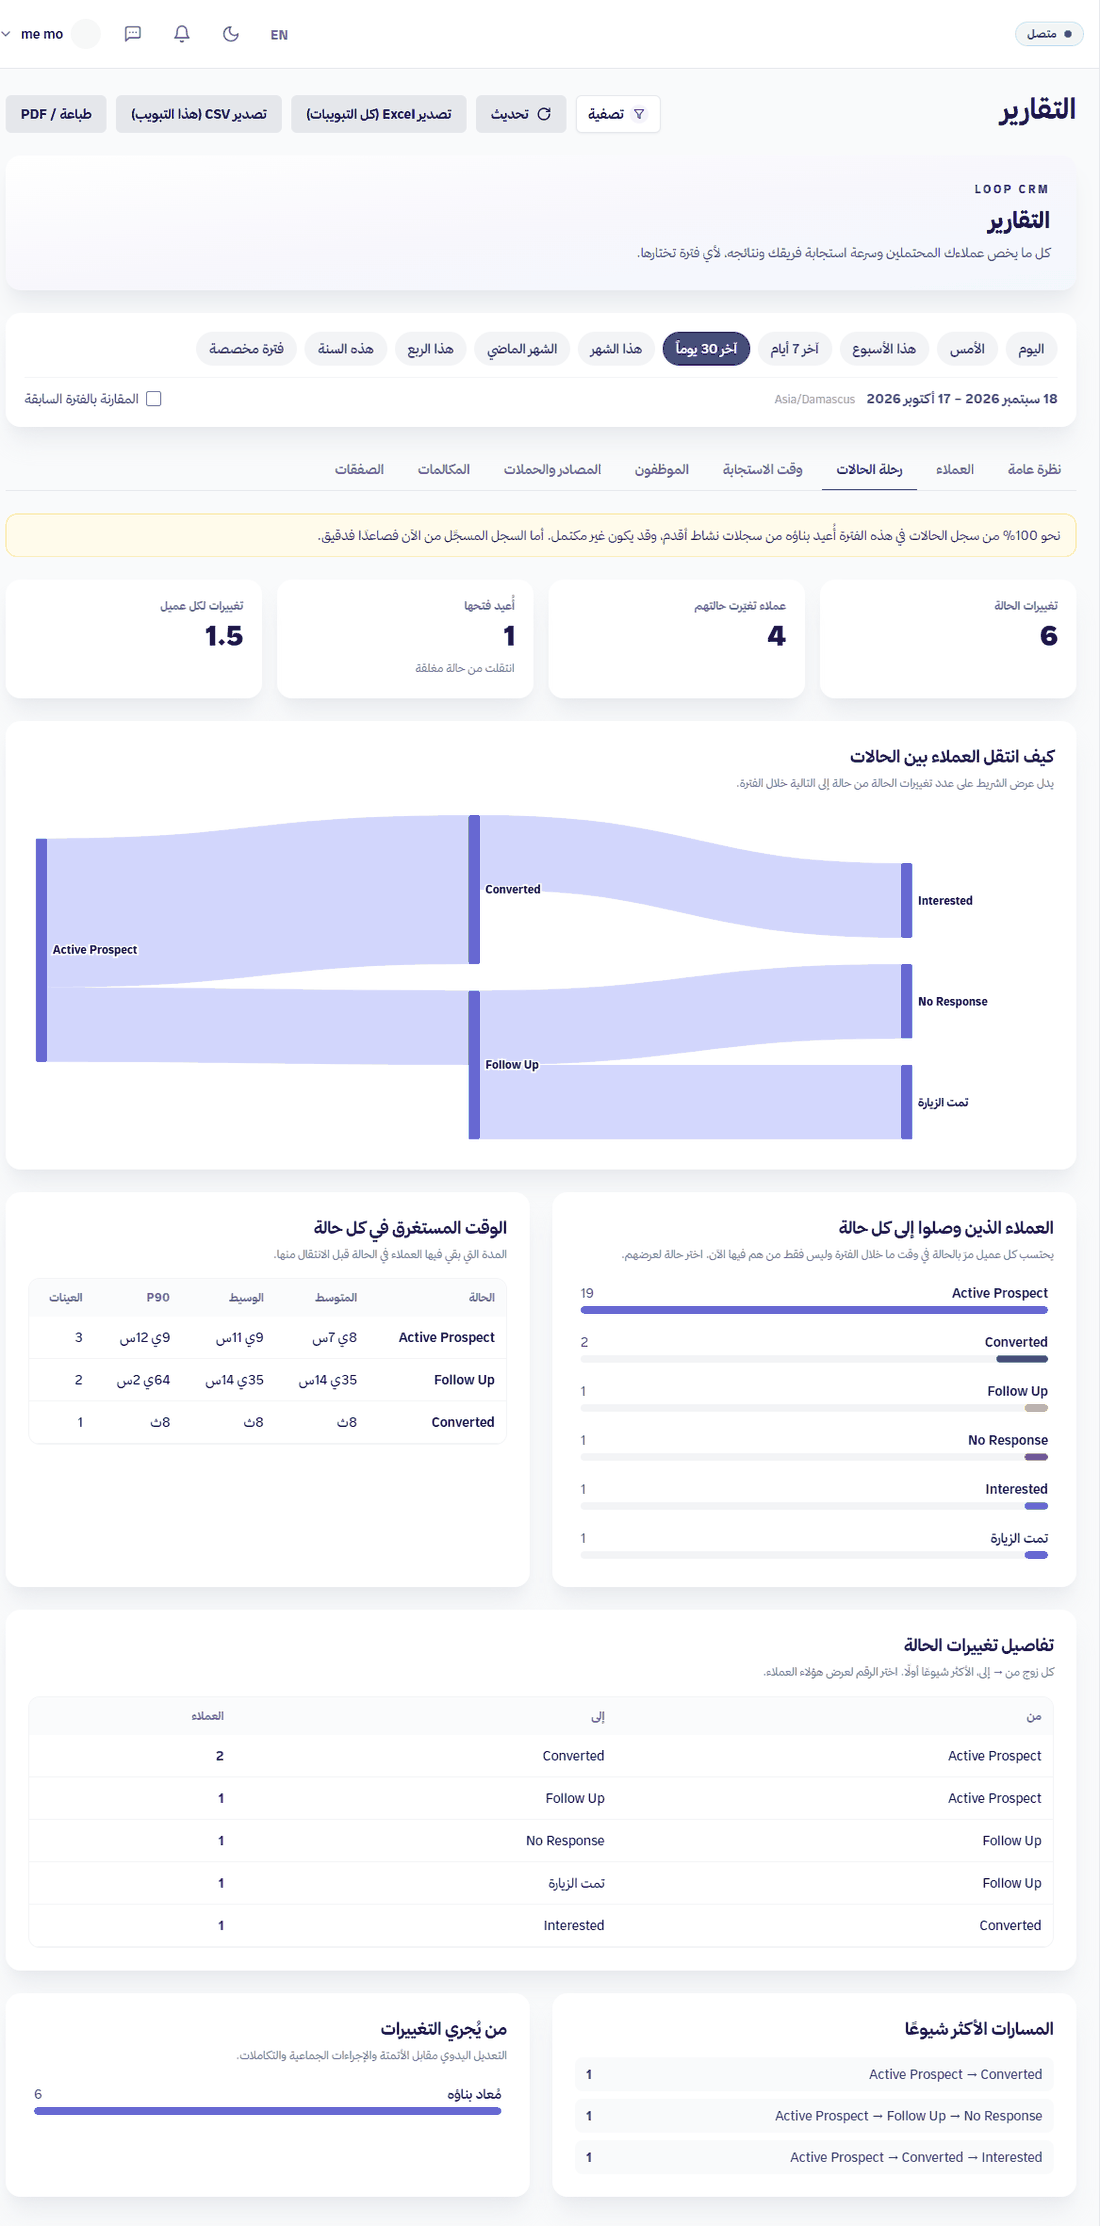
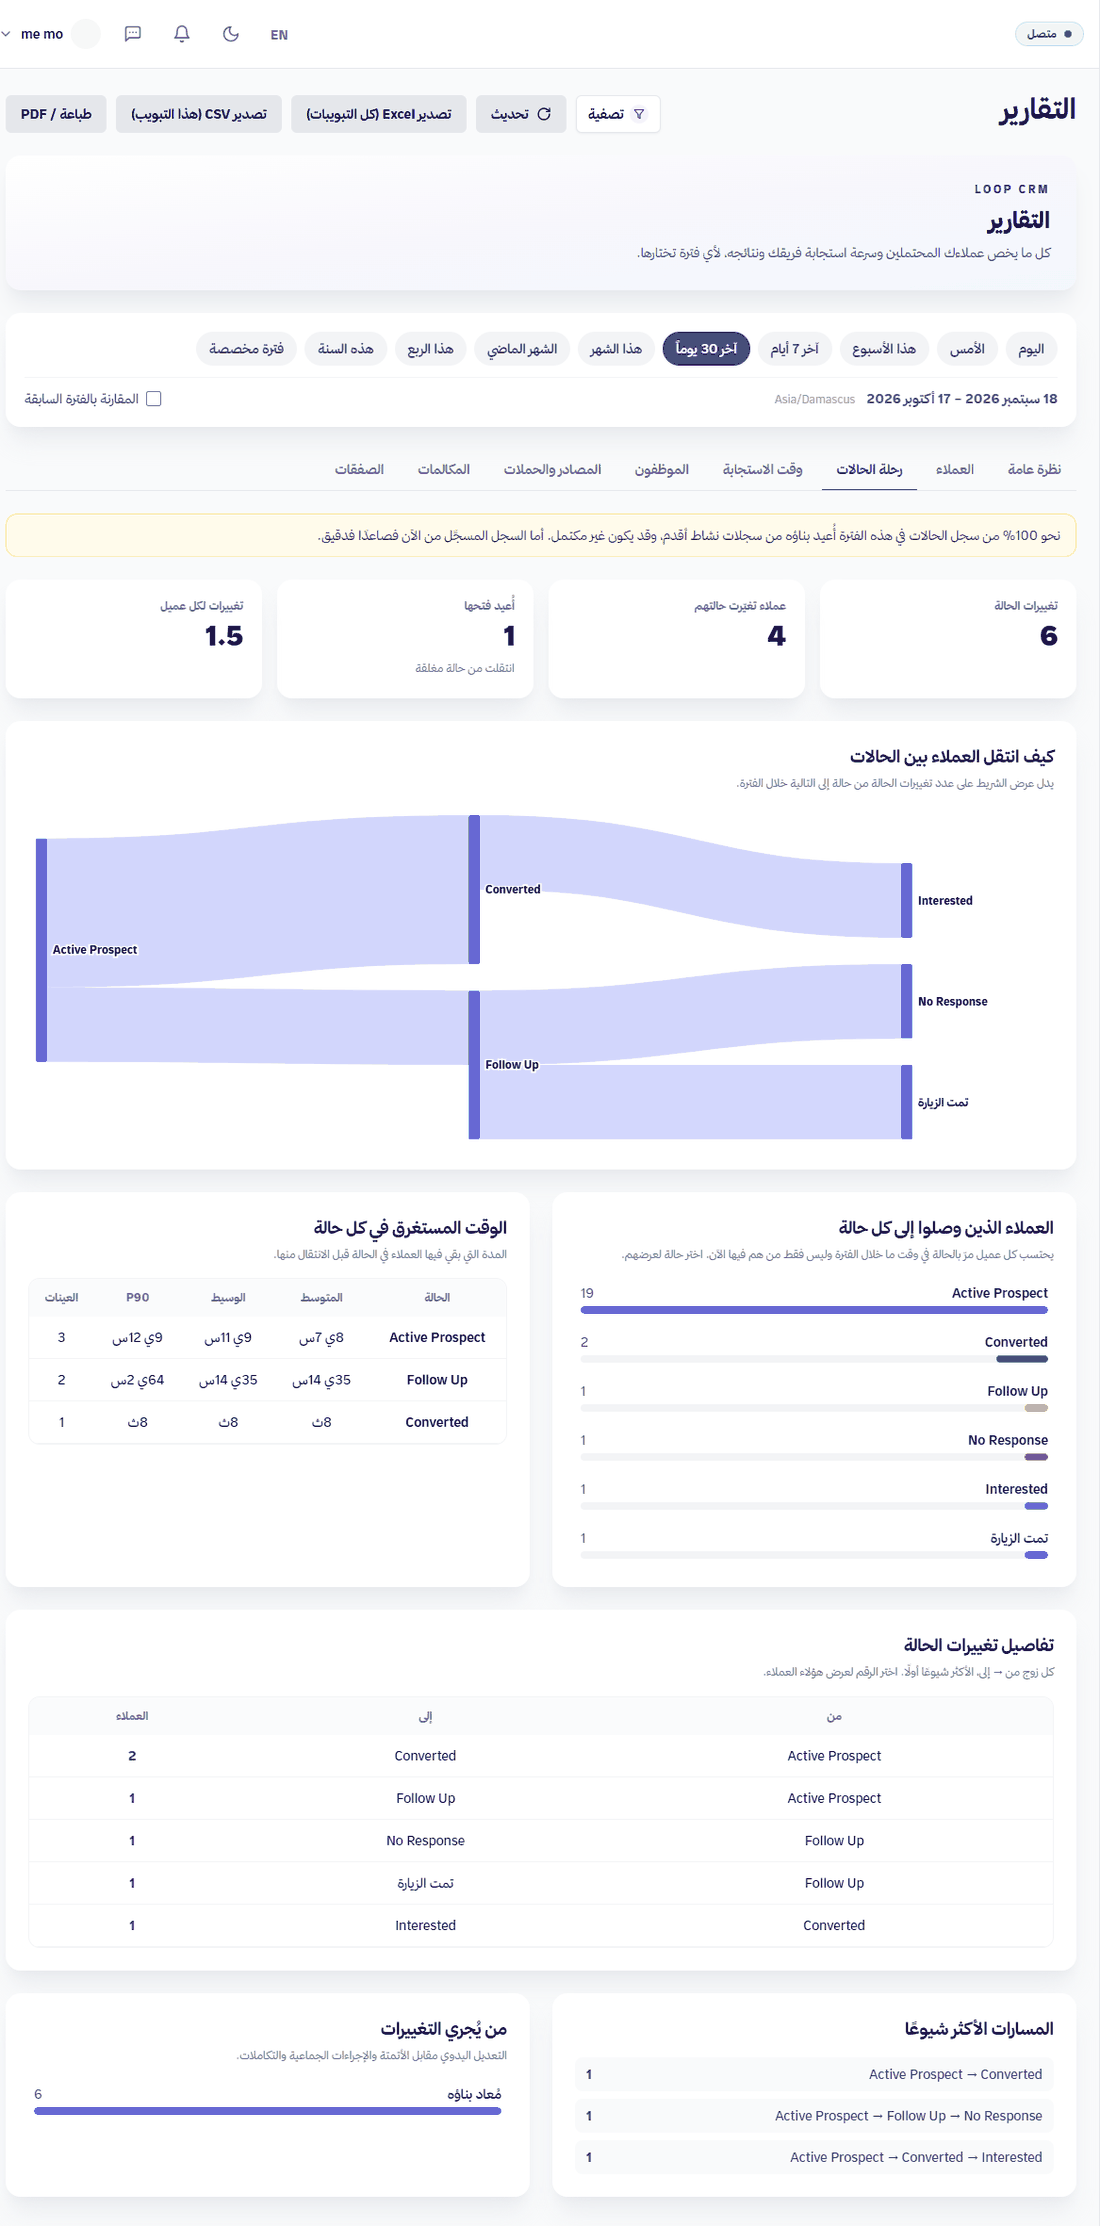
Center report table headers and values, like the app's other tables
The Reports hub tables were left-aligned; the old report tables centered every column.
The shared table styles now center headers and cells, and the manual screenshots are
regenerated to match.

diff --git a/components/reports/tabs/SectionShell.tsx b/components/reports/tabs/SectionShell.tsx
@@ -31,8 +31,8 @@ export const SectionShell = <S extends ReportSection>({
   );
 };
 
-export const thCls = 'px-3 py-3 text-xs font-semibold uppercase tracking-wide text-gray-500 dark:text-gray-400 text-start whitespace-nowrap';
-export const tdCls = 'px-3 py-3 text-sm text-gray-900 dark:text-gray-100 text-start align-middle';
+export const thCls = 'px-3 py-3 text-xs font-semibold uppercase tracking-wide text-gray-500 dark:text-gray-400 text-center whitespace-nowrap';
+export const tdCls = 'px-3 py-3 text-sm text-gray-900 dark:text-gray-100 text-center align-middle';
 export const rowCls = 'border-b border-gray-100 dark:border-gray-800/70 hover:bg-gray-50/70 dark:hover:bg-gray-800/40';
 
 /** Plain scrollable table used by every tab, so spacing and RTL behaviour stay identical. */
